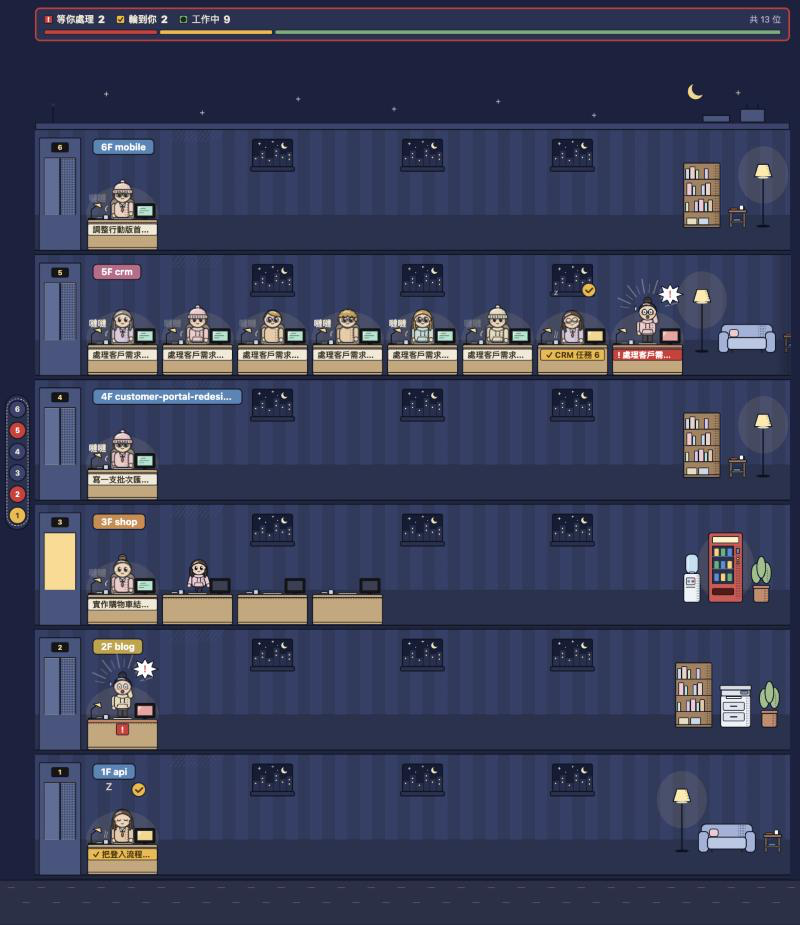
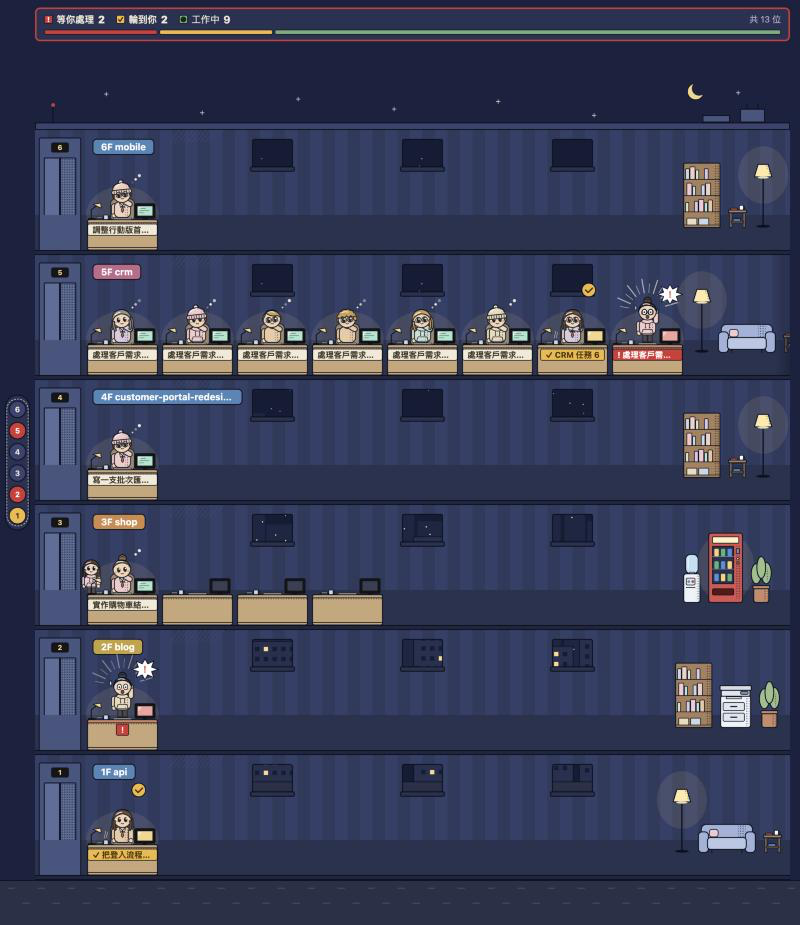
fix: 窗景改成一整片連續風景、不畫月亮；README 重拍日夜截圖
- fix: 窗景改成一整片連續風景，每扇窗只露出一塊
  窗本身只剩窗框與窗台；玻璃裡是共用的全景（天空、遠處屋頂、對面大樓、街道），
  左右依窗在樓層裡的位置、上下依樓層高度（1F 看街道，5F 以上固定看天空）。
  整張全景只有一個月亮，只在 4F 的一扇窗看得到。
- fix: 窗景裡不畫月亮，整個畫面只留屋頂上方天空的那一個
- docs: README 重拍日夜截圖，說明對齊連續窗景與人物動作

diff --git a/web/src/objects.ts b/web/src/objects.ts
@@ -90,22 +90,82 @@ function desk(st: DeskState): string {
   return o;
 }
 
-// ── 窗：70×52（含窗台）。紙張風墨線窗框，城市與天空用變數；白雲只在白天，星星與月亮只在夜晚 ──
+// ── 窗：70×52（含窗台）。只有紙張風墨線窗框與窗台；玻璃裡的風景是下面的全景，由 floor.ts 依窗的位置與樓層露出一塊 ──
 
-const CITY: [number, number, number][] = [[-31, -24, 10], [-20, -33, 9], [-10, -21, 11], [2, -37, 9], [12, -27, 10], [23, -31, 8.5]]; // [x, 樓頂 y, 寬]
-const LIT: [number, number][] = [[-28, -21], [-17, -29], [-17, -23], [-6, -18], [5, -33], [5, -26], [15, -23], [26, -27], [26, -20]];
+/** 窗玻璃在窗 symbol 裡的範圍（原點 = 窗台底邊中點） */
+export const GLASS = { x: -32, y: -51, w: 64, h: 44 } as const;
 
-function windowSym(): string {
-  const sky = rect(-32, -51, 64, 44, 3, undefined, fill('var(--window-sky)'));
-  const clouds = day(ellipse(-14, -40, 9, 3.2, undefined, WHITE) + ellipse(-8, -42.5, 5, 2.6, undefined, WHITE) + ellipse(14, -45, 6, 2.2, undefined, WHITE));
-  const stars = night(circle(19, -41, 5, undefined, fill('#f3e6b8')) + circle(21.5, -43, 4.3, undefined, fill('var(--window-sky)'))
-    + line('M-23 -44 h4 M-21 -46 v4 M-1 -47 h3 M0.5 -48.5 v3', 'mk-thin', 'stroke:#f1e9d8;stroke-width:.9')
-    + circle(-11, -38, 0.7, undefined, fill('#f1e9d8')) + circle(8, -41, 0.6, undefined, fill('#f1e9d8')));
-  const city = CITY.map(([x, y, w]) => rect(x, y, w, -7 - y, 0, undefined, fill('var(--city)'))).join('')
-    + LIT.map(([x, y]) => rect(x, y, 2, 2, 0, undefined, fill('var(--city-lit)'))).join('');
-  return sky + clouds + stars + city
-    + rect(-32, -51, 64, 44, 3, 'ink', 'fill:none') // 窗框
-    + rect(-35, -7, 70, 7, 2, 'ink', fill('var(--wall-low)')); // 窗台
+const windowSym = () =>
+  rect(GLASS.x, GLASS.y, GLASS.w, GLASS.h, 3, 'ink', 'fill:none') // 窗框
+  + rect(-35, -7, 70, 7, 2, 'ink', fill('var(--wall-low)')); // 窗台
+
+// ── 窗景：所有窗共用的一張全景，左上角是原點、y 往下。由上往下：天空（白天有雲；夜晚有星星，不畫月亮：整個畫面只有屋頂上方天空裡那一個）、遠處的屋頂、對面的大樓、街道。
+//    左右兩端接得起來（窗多時從頭接）；寬是窗距 240 的整數倍。furniture.ts 的 windowView 決定每扇窗露出哪一塊 ──
+
+export const PANO = { w: 1440, h: 260 } as const;
+const STREET_Y = 244;
+const STAR = fill('#f1e9d8');
+
+/** 固定種子的亂數（mulberry32）：全景每次畫出來都一樣 */
+function rng(seed: number): () => number {
+  let a = seed;
+  return () => {
+    a = (a + 0x6d2b79f5) | 0;
+    let t = Math.imul(a ^ (a >>> 15), 1 | a);
+    t = (t + Math.imul(t ^ (t >>> 7), 61 | t)) ^ t;
+    return ((t ^ (t >>> 14)) >>> 0) / 4294967296;
+  };
+}
+const between = (r: () => number, a: number, b: number) => Math.round(a + r() * (b - a));
+
+/** 從左排到右的一排樓：[左緣 x, 寬]；最後一棟到全景右緣為止，太窄就不放（右緣接回左緣時是一段空隙） */
+function lots(r: () => number, w: [number, number], gap: [number, number]): [number, number][] {
+  const out: [number, number][] = [];
+  for (let x = between(r, ...gap); ; x += between(r, ...gap)) {
+    const bw = Math.min(between(r, ...w), PANO.w - x);
+    if (bw < w[0]) return out;
+    out.push([x, bw]);
+    x += bw;
+  }
+}
+
+function panorama(): string {
+  const r = rng(7);
+  const sky = rect(0, 0, PANO.w, PANO.h, 0, undefined, fill('var(--window-sky)'));
+  let clouds = '';
+  for (let x = 30; x < PANO.w - 40; x += between(r, 110, 190)) {
+    const y = between(r, 22, 105), k = 0.8 + r() * 0.8;
+    clouds += ellipse(x, y, 9 * k, 3.2 * k, undefined, WHITE) + ellipse(x + 6 * k, y - 2.5 * k, 5 * k, 2.6 * k, undefined, WHITE);
+  }
+  let stars = '';
+  for (let i = 0; i < 90; i++) stars += circle(between(r, 2, PANO.w - 2), between(r, 6, 120), 0.5 + r() * 0.4, undefined, STAR);
+  for (let i = 0; i < 12; i++) {
+    const x = between(r, 4, PANO.w - 4), y = between(r, 10, 100);
+    stars += line(`M${x - 2} ${y} h4 M${x} ${y - 2} v4`, 'mk-thin', 'stroke:#f1e9d8;stroke-width:.9');
+  }
+  // 遠處的屋頂：淡一點，夜裡有零星的燈
+  let far = '', farLit = '';
+  for (const [x, w] of lots(r, [30, 70], [0, 10])) {
+    const top = between(r, 92, 140);
+    far += rect(x, top, w, 210 - top, 0, undefined, fill('var(--city)'));
+    for (let i = 0; i < 3; i++) farLit += rect(x + between(r, 3, w - 5), between(r, top + 4, 200), 2, 2, 0, undefined, fill('var(--city-lit)'));
+  }
+  // 對面的大樓：墨線外框、一格格窗（約三成亮著），有些樓頂有水塔或天線
+  let near = '';
+  for (const [x, w] of lots(r, [56, 110], [8, 24])) {
+    const top = between(r, 140, 186), cols = Math.floor((w - 8) / 14), left = x + (w - cols * 14) / 2 + 3.5;
+    near += rect(x, top, w, STREET_Y - top, 0, 'mk-thin', fill('var(--city)'));
+    for (let y = top + 9; y + 7 <= STREET_Y - 8; y += 16) {
+      for (let c = 0; c < cols; c++) near += rect(left + c * 14, y, 7, 7, 0, undefined, fill(r() < 0.28 ? 'var(--city-lit)' : 'var(--window-sky)'));
+    }
+    const roof = r(), at = x + between(r, 8, w - 20);
+    if (roof < 0.3) near += line(`M${at + 2} ${top} v-4 M${at + 10} ${top} v-4`, 'mk-thin') + rect(at, top - 12, 12, 8, 1.5, 'mk-thin', fill('var(--roof)'));
+    else if (roof < 0.5) near += line(`M${at} ${top} v-14 M${at - 3} ${top - 10} h6`, 'mk-thin');
+  }
+  const street = rect(0, STREET_Y, PANO.w, PANO.h - STREET_Y, 0, undefined, fill('var(--ground)'))
+    + line(`M0 ${STREET_Y} H${PANO.w}`, 'mk-thin')
+    + line(`M4 ${STREET_Y + 9} H${PANO.w}`, 'mk-thin', 'stroke:var(--paper);stroke-dasharray:10 8;opacity:.7');
+  return sky + day(clouds) + night(stars) + g('opacity:.5', far) + night(farLit) + near + street;
 }
 
 // ── 右端家具（尺寸沿用現在的版本，layoutSet 排出來的位置不變） ──
@@ -219,7 +279,7 @@ export function defsSvg(): string {
   const symbols = (Object.keys(OBJECTS) as ObjectId[]).map((id) => {
     const { w, h } = OBJECTS[id];
     return tag('symbol', { id, viewBox: `${-w / 2} ${-h} ${w} ${h}`, style: 'overflow:visible' }, DRAW[id]());
-  }).join('');
+  }).join('') + tag('symbol', { id: 'panorama', viewBox: `0 0 ${PANO.w} ${PANO.h}` }, panorama());
   return tag('svg', { xmlns: 'http://www.w3.org/2000/svg', width: 0, height: 0, 'aria-hidden': 'true', style: 'position:absolute' },
     tag('defs', {}, pattern + symbols));
 }

diff --git a/web/src/floor.ts b/web/src/floor.ts
@@ -1,7 +1,7 @@
 // 一層樓：後牆（招牌「NF 專案名」、窗景與家具）、地板、樓板、左邊電梯門（門上樓號）、一排正面桌與名牌、右端一組家具。人物由 building.ts 放進 people 圖層
 import { DOOR_X, edgeHints, floorWidth, GEO, helperKey, plateText, seatCenter, type EdgeHint, type Floor, type Occupant } from './floors.js';
-import { furnitureSet, layoutSet, SIGN_MAX_W, SIGN_X, windowXs } from './furniture.js';
-import { OBJECTS, type DeskState, type ObjectId } from './objects.js';
+import { furnitureSet, layoutSet, SIGN_MAX_W, SIGN_X, windowView, windowXs } from './furniture.js';
+import { GLASS, OBJECTS, PANO, type DeskState, type ObjectId } from './objects.js';
 import { ElevatorDoor } from './door.js';
 import { reduceMotion } from './motion.js';
 
@@ -28,6 +28,24 @@ export function useObj(id: ObjectId, x: number, y: number): SVGSVGElement {
   use.setAttribute('height', String(h));
   svg.append(use);
   return svg;
+}
+
+/** 一扇窗：玻璃是一個小 svg，viewBox 對到全景（#panorama）上的一塊（placeWindows 依樓層設定）；窗框與窗台（#window）疊在上面。
+ *  全景畫兩份並排，露出的那塊跨過右緣時接得上 */
+function windowEl(x: number): SVGSVGElement {
+  const win = useObj('window', x, WIN_Y), { w, h } = OBJECTS.window;
+  const view = document.createElementNS(SVG_NS, 'svg');
+  for (const [k, v] of [['x', w / 2 + GLASS.x], ['y', h + GLASS.y], ['width', GLASS.w], ['height', GLASS.h]] as const) view.setAttribute(k, String(v));
+  for (const at of [0, PANO.w]) {
+    const use = document.createElementNS(SVG_NS, 'use');
+    use.setAttribute('href', '#panorama');
+    use.setAttribute('x', String(at));
+    use.setAttribute('width', String(PANO.w));
+    use.setAttribute('height', String(PANO.h));
+    view.append(use);
+  }
+  win.prepend(view);
+  return win;
 }
 
 const deskState = (o: Occupant | null): DeskState => {
@@ -126,7 +144,7 @@ export class FloorView {
     this.el.dataset.key = f.key;
     const width = floorWidth(f.desks, avail);
     this.inner.style.width = `${width}px`;
-    this.placeWindows(width);
+    this.placeWindows(width, f.level);
     if (this.furnKey !== f.key) this.placeFurniture(f.key);
     this.sign.textContent = `${f.level}F ${f.title}`;
     this.sign.title = f.key || f.title;
@@ -154,11 +172,15 @@ export class FloorView {
     this.schedule(); // 寬度或狀態變了不會有 scroll 事件；等這一輪的寫入做完再讀版面
   }
 
-  /** 後牆窗：位置只跟樓層寬有關（windowXs），多的拿掉、少的補上 */
-  private placeWindows(width: number): void {
+  /** 後牆窗：位置只跟樓層寬有關（windowXs），多的拿掉、少的補上；窗景跟著窗的位置與樓層（windowView） */
+  private placeWindows(width: number, level: number): void {
     const xs = windowXs(width), wins = this.windows.children;
     while (wins.length > xs.length) wins[wins.length - 1]!.remove();
-    while (wins.length < xs.length) this.windows.append(useObj('window', xs[wins.length]!, WIN_Y));
+    while (wins.length < xs.length) this.windows.append(windowEl(xs[wins.length]!));
+    xs.forEach((x, i) => {
+      const v = windowView(x, level);
+      wins[i]!.firstElementChild!.setAttribute('viewBox', `${v.x} ${v.y} ${GLASS.w} ${GLASS.h}`);
+    });
   }
 
   /** 右端家具：依 roomKey 挑一組（同一層永遠同一組），家具區貼著樓層右緣 */

diff --git a/test/objects.test.ts b/test/objects.test.ts
@@ -1,5 +1,5 @@
 import { expect, test } from 'vitest';
-import { OBJECTS, defsSvg, type ObjectId } from '../web/src/objects.js';
+import { OBJECTS, PANO, defsSvg, type ObjectId } from '../web/src/objects.js';
 
 const IDS = Object.keys(OBJECTS) as ObjectId[];
 const DESKS: ObjectId[] = ['desk-empty', 'desk-working', 'desk-waiting', 'desk-idle'];
@@ -38,7 +38,7 @@ test('尺寸沿用現在的家具、桌子 112×76、窗 70×52', () => {
   for (const d of DESKS) expect(size(d), d).toEqual([112, 76]);
 });
 
-test('defsSvg 有網點與每個物件的 symbol，id 不重複', () => {
+test('defsSvg 有網點、窗景全景與每個物件的 symbol，id 不重複', () => {
   const s = defsSvg();
   expect(s).toContain('<pattern id="tone"');
   expect(s).toMatch(/<pattern id="tone"[^>]*width="4"[^>]*height="4"/);
@@ -46,7 +46,7 @@ test('defsSvg 有網點與每個物件的 symbol，id 不重複', () => {
   for (const id of IDS) expect(s, id).toContain(`<symbol id="${id}"`);
   const ids = [...s.matchAll(/\sid="([^"]*)"/g)].map((m) => m[1]);
   expect(new Set(ids).size).toBe(ids.length);
-  expect(ids).toHaveLength(IDS.length + 1);
+  expect(ids).toHaveLength(IDS.length + 2); // + tone、panorama
 });
 
 test('symbol 的 viewBox 依原點在底邊中點', () => {
@@ -76,15 +76,32 @@ test('顏色不寫在屬性上', () => {
 
 test('日夜群組用變數控制', () => {
   const s = defsSvg();
-  const win = symbolOf(s, 'window');
-  expect(win).toContain('opacity:var(--day)');
-  expect(win).toContain('opacity:var(--night)');
+  const pano = symbolOf(s, 'panorama');
+  expect(pano).toContain('opacity:var(--day)');
+  expect(pano).toContain('opacity:var(--night)');
   expect(symbolOf(s, 'desk-empty')).not.toContain('var(--night)');
   for (const d of ['desk-working', 'desk-waiting', 'desk-idle']) expect(symbolOf(s, d), d).toContain('opacity:var(--night)');
   for (const f of ['vending', 'floorLamp']) {
     expect(symbolOf(s, f), f).toContain('opacity:var(--night)');
     expect(symbolOf(s, f), f).toContain('var(--lamp-glow)');
   }
+});
+
+test('窗只剩窗框與窗台：沒有天空、雲、月亮', () => {
+  const win = symbolOf(defsSvg(), 'window');
+  expect(win).not.toContain('var(--window-sky)');
+  expect(win).not.toContain('var(--day)');
+  expect(win).not.toContain('var(--night)');
+  expect(win).not.toContain('<circle');
+});
+
+test('窗景是一張共用的全景：整片天空、街道與城市，不畫月亮（月亮只在屋頂上方的天空）', () => {
+  const s = defsSvg();
+  const pano = symbolOf(s, 'panorama');
+  expect(pano).toContain(`viewBox="0 0 ${PANO.w} ${PANO.h}"`);
+  expect(pano).toContain('var(--window-sky)');
+  expect(pano).toContain('var(--city-lit)');
+  expect(pano).not.toContain('#f3e6b8'); // 月亮色
 });
 
 test('同一份 defs 每次相同', () => {

diff --git a/test/furniture.test.ts b/test/furniture.test.ts
@@ -1,7 +1,7 @@
 import { describe, it, test, expect } from 'vitest';
 import { GEO } from '../web/src/floors.js';
 import * as F from '../web/src/furniture.js';
-import { OBJECTS, type ObjectId } from '../web/src/objects.js';
+import { GLASS, OBJECTS, PANO, type ObjectId } from '../web/src/objects.js';
 
 const width = (it: { id: ObjectId }): number => OBJECTS[it.id].w;
 
@@ -73,5 +73,41 @@ describe('後牆窗', () => {
     expect(F.SIGN_X).toBeGreaterThanOrEqual(GEO.elevatorW);
     expect(F.SIGN_MAX_W).toBeGreaterThanOrEqual(200);
     expect(F.SIGN_X + F.SIGN_MAX_W).toBeLessThan(F.WIN.first - F.WIN.half);
+  });
+});
+
+describe('窗景：每扇窗是開在同一片風景上的洞', () => {
+  it('同一層相鄰的窗看到的是同一片風景、往右挪 240 的地方', () => {
+    const a = F.windowView(380, 1), b = F.windowView(620, 1);
+    expect(b.x - a.x).toBe(240);
+    expect(b.y).toBe(a.y);
+  });
+
+  it('1F 看到風景的最底部（對面大樓與街道），越高層看得越高', () => {
+    expect(F.windowView(380, 1).y + GLASS.h).toBe(PANO.h);
+    for (let l = 1; l < F.VIEW.topLevel; l++) {
+      expect(F.windowView(380, l + 1).y, `${l}F`).toBeLessThan(F.windowView(380, l).y);
+      expect(F.windowView(380, l + 1).x).toBe(F.windowView(380, l).x);
+    }
+  });
+
+  it('到最高視角就固定，不會超出風景；0 或負的樓層當 1F', () => {
+    const top = F.windowView(380, F.VIEW.topLevel);
+    expect(F.windowView(380, 30)).toEqual(top);
+    expect(top.y).toBeGreaterThanOrEqual(0);
+    expect(F.windowView(380, 0)).toEqual(F.windowView(380, 1));
+  });
+
+  it('左右超過風景寬就從頭接（x 永遠在 0 到 PANO.w 之間）', () => {
+    expect(F.windowView(380 + PANO.w, 1)).toEqual(F.windowView(380, 1));
+    for (let x = 0; x < 6000; x += 97) {
+      const v = F.windowView(x, 1);
+      expect(v.x).toBeGreaterThanOrEqual(0);
+      expect(v.x).toBeLessThan(PANO.w);
+    }
+  });
+
+  it('風景寬是窗距的整數倍，窗景才會整齊重複', () => {
+    expect(Number.isInteger(PANO.w / F.WIN.step)).toBe(true);
   });
 });

diff --git a/web/src/furniture.ts b/web/src/furniture.ts
@@ -1,7 +1,7 @@
 // Claude 辦公室 · 剖面大樓的右端家具組與後牆窗的位置。家具與窗的圖在 objects.ts（SVG symbol），這裡只管排哪幾件、怎麼擺。
 
 import { GEO } from './floors.js';
-import { OBJECTS, type FurnitureId } from './objects.js';
+import { GLASS, OBJECTS, PANO, type FurnitureId } from './objects.js';
 
 // ---------- 家具組（右端家具區） ----------
 export interface FurnItem { id: FurnitureId }
@@ -49,4 +49,14 @@ export function windowXs(width: number): number[] {
   const out: number[] = [];
   for (let x = WIN.first; x + WIN.half <= width - GEO.furnitureW; x += WIN.step) out.push(x);
   return out;
+}
+
+/** 窗景的上下：每高一層往上看 step；topLevel 以上固定在最高的視角 */
+export const VIEW = { step: 50, topLevel: 5 } as const;
+
+/** 中心在 x 的窗、在第 level 層時，玻璃露出的那塊全景的左上角（全景座標）。
+ *  所有窗是開在同一片風景上的洞：左右跟著窗在樓層裡的位置（超過全景寬就從頭接），上下跟著樓層（1F 看到最底下的街道） */
+export function windowView(x: number, level: number): { x: number; y: number } {
+  const l = Math.min(Math.max(level, 1), VIEW.topLevel);
+  return { x: (((x + GLASS.x) % PANO.w) + PANO.w) % PANO.w, y: PANO.h - GLASS.h - (l - 1) * VIEW.step };
 }

diff --git a/README.md b/README.md
@@ -4,11 +4,11 @@
 
 ![Claude 辦公室（白天）：頂端是紅色外框的紙卡狀態列，左側是電梯面板，右邊由上往下是六層樓，每層有專案招牌、坐在桌前的漫畫員工與右端的家具](docs/images/office-day.png)
 
-*上圖是白天（`?time=day`）、`npm run simulate` 跑到一半的畫面，共六層：頂端是紙卡狀態列，有圖例與比例條，因為有人等你處理，外框是紅色；左側是電梯面板，一層一顆圓鈕，紅色是有人等你處理的樓層（2F、5F），琥珀色是輪到你的樓層（1F），外圍的虛線框框住目前看得到的樓層。右邊由上往下是 6F mobile、5F crm、4F 專案資料夾名太長而以「…」截斷的招牌、3F shop、2F blog、1F api，招牌貼在後牆左上。人物是漫畫畫法，狀態靠漫符分辨：工作中的員工坐著打字，旁邊有「噠噠」，名牌是米白色；5F 最右邊與 2F 的員工在等你處理，站起來舉手，頭旁有集中線，右側有尖角的「！」框，名牌是紅色並以「!」開頭；1F 與 5F 第七位的員工輪到你，閉著眼睛，旁邊飄著「z」，頭上有打勾的琥珀色泡泡，名牌是琥珀色並以「✓」開頭。5F crm 坐滿 8 人，右緣有暗影，表示還能往右捲。後牆有窗景，右端放一組家具；天空有太陽與白雲，屋頂有天線。*
+*上圖是白天（`?time=day`）、`npm run simulate` 跑到一半的畫面，共六層：頂端是紙卡狀態列，有圖例與比例條，因為有人等你處理，外框是紅色；左側是電梯面板，一層一顆圓鈕，紅色是有人等你處理的樓層（2F、5F），琥珀色是輪到你的樓層（1F），外圍的虛線框框住目前看得到的樓層。右邊由上往下是 6F mobile、5F crm、4F 專案資料夾名太長而以「…」截斷的招牌、3F shop、2F blog、1F api，招牌貼在後牆左上。人物是漫畫畫法，狀態靠漫符分辨：工作中的員工此刻都在想下一步，托著下巴，頭旁飄著小點，名牌是米白色；5F 最右邊與 2F 的員工在等你處理，站起來舉手，頭旁有集中線，右側有尖角的「！」框，名牌是紅色並以「!」開頭；1F 與 5F 第七位的員工輪到你，頭上有打勾的琥珀色泡泡，名牌是琥珀色並以「✓」開頭，1F 那位閉著眼睛打瞌睡，旁邊飄著「z」。3F shop 第二張桌子的助理剛做完，名牌是「↳ ✓ 完成」，正從座位站起來，要拿文件去給主人。5F crm 坐滿 8 人，右緣有暗影，表示還能往右捲。每扇窗看出去是同一片城市的不同位置：1F 看到對面大樓的下半部與街道，2F 是對面大樓的窗，越高層看到越多屋頂與天空，5F、6F 幾乎只剩天空；右端放一組家具，大樓上方的天空有太陽與白雲，屋頂有天線。**
 
-![Claude 辦公室（夜晚）：同一個畫面換成深藍色的夜晚，窗外有星星與月牙，有人的桌子亮著檯燈，立燈周圍有一圈暖光、販賣機透出淡淡的光](docs/images/office-night.png)
+![Claude 辦公室（夜晚）：同一個畫面換成深藍色的夜晚，窗裡是星空與對面大樓亮著的窗，屋頂上方有月牙，有人的桌子亮著檯燈，立燈周圍有一圈暖光、販賣機透出淡淡的光](docs/images/office-night.png)
 
-*上圖是夜晚（`?time=night`）、同一份劇本的另一個畫面，共六層：狀態列與電梯面板換成深藍紙卡，因為有人等你處理，外框仍是紅色；電梯面板的 5、2 是紅燈，1 是琥珀燈。三種狀態的顏色白天夜晚相同：5F crm 最右邊與 2F blog 的員工在等你處理，5F crm 第七位與 1F api 的員工輪到你，其他人在打字。牆面、天空與窗景換成夜色，窗外有星星與月牙；有人的桌子亮著檯燈，立燈周圍有一圈暖光、販賣機透出淡淡的光，沒有人的桌子不亮燈；屋頂天線頂端的紅燈會閃。*
+*上圖是夜晚（`?time=night`）、同一份劇本的另一個畫面，共六層：狀態列與電梯面板換成深藍紙卡，因為有人等你處理，外框仍是紅色；電梯面板的 5、2 是紅燈，1 是琥珀燈。三種狀態的顏色白天夜晚相同：5F crm 最右邊與 2F blog 的員工在等你處理，5F crm 第七位與 1F api 的員工輪到你，其他員工在工作。3F shop 的助理已經走到主人桌旁，正把文件遞給他。牆面、天空與窗景換成夜色：高樓層的窗裡是星空，低樓層看到對面大樓零星亮著的窗；整個畫面只有一個月牙，在屋頂上方的天空。有人的桌子亮著檯燈，立燈周圍有一圈暖光、販賣機透出淡淡的光，沒有人的桌子不亮燈；屋頂天線頂端的紅燈會閃。**
 
 ## 功能
 
@@ -133,7 +133,7 @@ npm run simulate -- --loop      # 一直重複
 
 **樓層分配**：每個專案（以完整路徑 cwd 判斷，一個資料夾一個）一層樓，先到的專案在低樓層、新專案蓋在最上面；還有人的樓層不會換位置，只有整層走光（包含走進電梯）時，那層才拆掉，上面的樓層往下遞補，樓號跟著改。頁面剛載入時，專案依各自最早的到班時間從 1F 往上排；之後重新連線（例如伺服器重啟），還在的樓層維持原本的順序，新的專案蓋在上面。同名但路徑不同的資料夾，招牌會顯示路徑最後兩層來區分；招牌上的專案色由路徑決定，滑到招牌上會顯示完整路徑。
 
-**一層樓**：高 200px，從左到右是電梯門（門上有樓號）、一排桌子、右端一組家具；後牆有窗景（遠方的城市，白天是藍天白雲，夜晚是星空與月牙），招牌寫在後牆左上，例如「3F shop」（專案色底、白字，放不下以「…」截斷）。右端家具從四組（飲水機＋販賣機＋盆栽、書櫃＋影印機＋盆栽、立燈＋沙發＋邊桌、書櫃＋邊桌＋立燈）裡依專案路徑挑一組，所以同一個專案永遠長一樣。
+**一層樓**：高 200px，從左到右是電梯門（門上有樓號）、一排桌子、右端一組家具；後牆有窗景：所有窗看出去是同一片連續的城市（天空、遠處的屋頂、對面的大樓、街道），每扇窗只露出其中一塊，左右跟著窗在樓層裡的位置，上下跟著樓層高低（1F 看到對面大樓與街道，越高層看到越多屋頂與天空，5F 以上固定在最高的視角）；白天天空有白雲，夜晚有星星、對面大樓有零星亮著的窗。窗裡不畫太陽和月亮，整個畫面只有屋頂上方天空裡的那一個，招牌寫在後牆左上，例如「3F shop」（專案色底、白字，放不下以「…」截斷）。右端家具從四組（飲水機＋販賣機＋盆栽、書櫃＋影印機＋盆栽、立燈＋沙發＋邊桌、書櫃＋邊桌＋立燈）裡依專案路徑挑一組，所以同一個專案永遠長一樣。
 
 **桌子與座位**：一個座位寬 120px，人坐在桌後面向你，螢幕在桌面右側不擋臉。桌數是這層最大座位編號（包含助理的座位）加 1，沒人坐的座位是一張空桌（螢幕是暗的），整層沒人之前空桌都會保留。桌子的狀態一看就懂：
 
@@ -229,7 +229,7 @@ npm run build       # tsc + tsc -p web + vite build
 
 - `floors.ts`：不碰 DOM 的純函式，會不會畫錯的計算都在這裡（樓層與座位配置 `floorPlan`、助理座位 `assignAssistantSeats`、助理名單 `helperRoster`、電梯燈 `floorAlert`、邊緣提示 `edgeHints`、名牌文字 `plateText`、走路時間），尺寸常數 `GEO` 也在這裡，有 vitest 測試（`test/floors.test.ts`）。
 - `building.ts`（整棟大樓、人物進出與重新連線）→ `floor.ts`（一層樓、左右捲與邊緣提示）→ `person.ts`（一個人：姿勢、走路、泡泡）；`elevator.ts` 是電梯面板，`door.ts` 是電梯門的開關計時，`card.ts` 是資訊卡，`main.ts` 負責狀態列與分頁標題，`sync.ts` 接伺服器的事件。
-- `figure.ts`（一個漫畫人物的 SVG：髮型、衣服、眼鏡、姿勢與漫符的部件，以及資訊卡用的頭像）、`objects.ts`（桌子、窗、八種家具的 SVG `<symbol>` 與物件表）、`svg.ts`（組 SVG 字串的小工具）：都是不碰 DOM 的純函式，有 vitest 測試（`test/figure.test.ts`、`test/objects.test.ts`）。
+- `figure.ts`（一個漫畫人物的 SVG：髮型、衣服、眼鏡、姿勢與漫符的部件，以及資訊卡用的頭像）、`objects.ts`（桌子、窗、八種家具與窗景全景的 SVG `<symbol>` 與物件表）、`svg.ts`（組 SVG 字串的小工具）：都是不碰 DOM 的純函式，有 vitest 測試（`test/figure.test.ts`、`test/objects.test.ts`）。
 - `theme.ts`：依本機時間（6:00–18:00 白天，其餘夜晚）或網址 `?time=day`／`?time=night` 設定 `<html data-time>`，每 60 秒檢查一次；`timeOfDay`、`themeOverride` 是純函式，有測試（`test/theme.test.ts`）。
 - `view.ts`：外觀雜湊、名牌文字、狀態列摘要、專案配色等小工具。
 - 版面與配色的 CSS 在 `web/src/styles/`：`theme.css`（日夜兩組主題變數）、`building.css`（天空、屋頂、樓層、牆、窗、地面、招牌、名牌）、`figure.css`（人物姿勢、漫符與動畫、減少動態）、`ui.css`（狀態列、電梯面板、資訊卡）；`web/index.html` 只留骨架。
